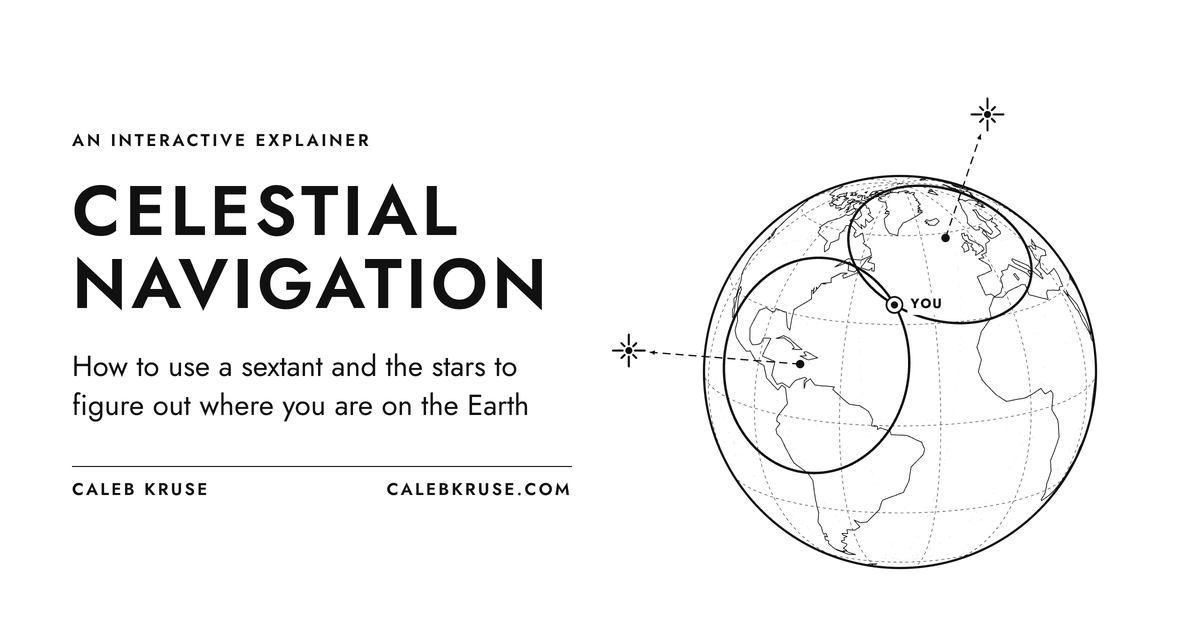
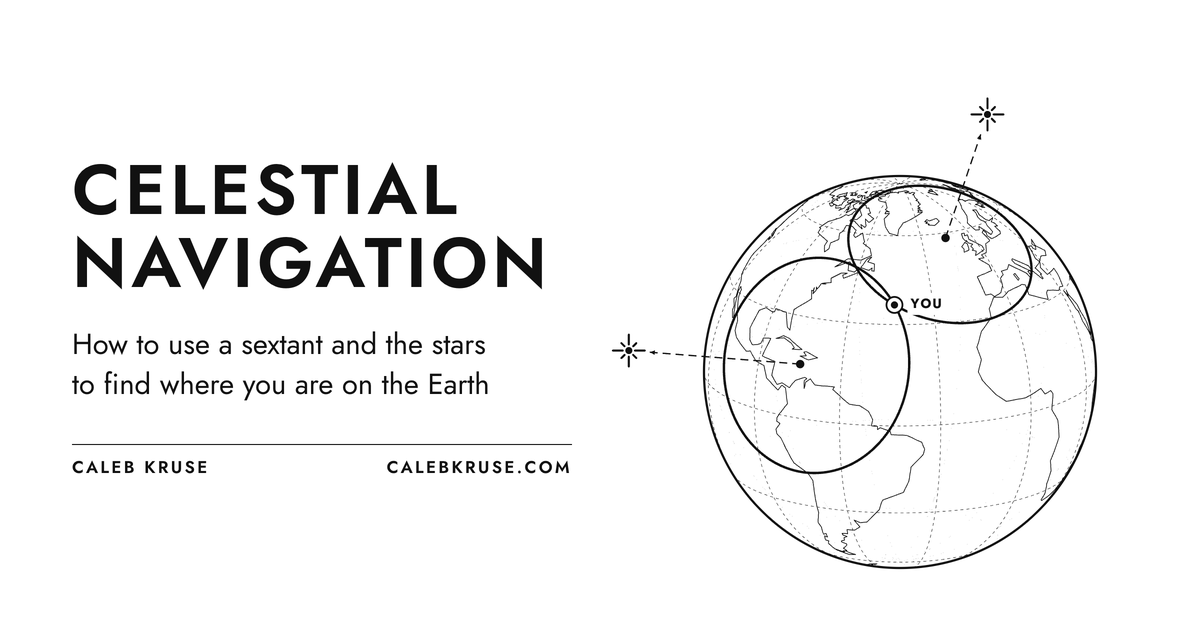
sextant: og card and description, drop the "interactive explainer" kicker

diff --git a/10-projects/sextant/index.html b/10-projects/sextant/index.html
@@ -15,7 +15,7 @@
   <meta property="og:site_name" content="calebkruse.com">
   <meta property="og:title" content="Celestial Navigation">
   <meta property="og:description"
-    content="An interactive explainer on how a sextant, a clock, and the stars can pin down your position on the open ocean to within a mile or two.">
+    content="How to use a sextant and the stars to find where you are on the Earth">
   <meta property="og:url" content="https://calebkruse.com/10-projects/sextant/">
   <meta property="og:image" content="https://calebkruse.com/10-projects/sextant/assets/og-card.png">
   <meta property="og:image:type" content="image/png">
@@ -25,7 +25,7 @@
   <meta name="twitter:card" content="summary_large_image">
   <meta name="twitter:title" content="Celestial Navigation">
   <meta name="twitter:description"
-    content="An interactive explainer on how a sextant, a clock, and the stars can pin down your position on the open ocean to within a mile or two.">
+    content="How to use a sextant and the stars to find where you are on the Earth">
   <meta name="twitter:image" content="https://calebkruse.com/10-projects/sextant/assets/og-card.png">
   <script async src="https://www.googletagmanager.com/gtag/js?id=UA-105607174-2"></script>
   <script>
